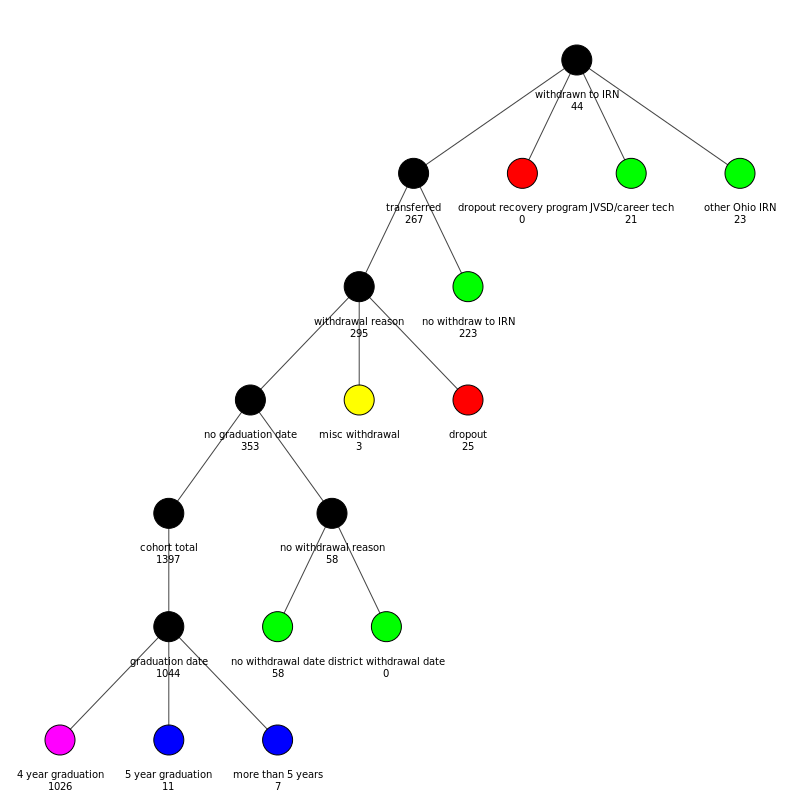
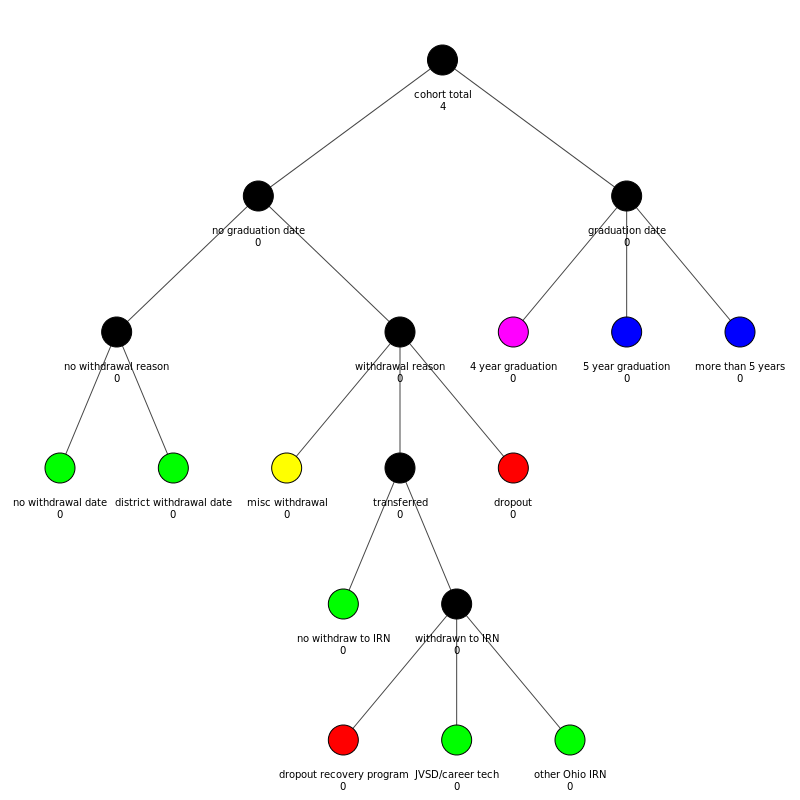
minor updates to fix root and documentation issues

diff --git a/Descriptives/cohort_analysis/build_cohort_tree_counts.py b/Descriptives/cohort_analysis/build_cohort_tree_counts.py
@@ -11,6 +11,19 @@ from mvesc_utility_functions import postgres_pgconnection_generator
 def get_bucket_counts(cursor, tree, grade_begin, year_begin,
         schema = 'clean', tracking = 'wrk_tracking_students', grads = 'all_graduates',
         dropout_recovery_irns="IRN_DORP_GRAD_RATE1415", jvsd_irns="JVSD_Contact"):
+    """
+    Runs a sql query for each of the 18 buckets in the initialized tree graph.
+    Gets the counts and lists of student lookup numbers for each bucket.
+    Updates the tree attributes with sql query results.
+    :param psycopg2.cursor cursor: a cursor to execute sql queries in postgres
+    :param igraph.Graph tree: an empty tree Graph, returned by build_empty_tree
+        (stores the results of queries in tree representation)
+    :param str grade_begin: the grade level of the entering cohort in string format
+    :param int year_begin: the school year of the entering cohort
+    :param str schema: name of schema containing tracking table
+    :param str tracking: name of wide student tracking table 
+    """
+
     # This function assumes wrk_tracking_students and all_graduates have been built correctly
     # Make sure they are up to date with latest builds!
 
@@ -156,7 +169,8 @@ def draw_tree_to_file(tree, filename="test_tree_plot.png"):
     Tree attributes should be fully defined before calling this function.
     """
 
-    tree_layout = tree.layout("tree")
+    # set root of the tree at vertex 0
+    tree_layout = tree.layout_reingold_tilford(root=[0])
     # set color mappings for each node in visualized tree graph
     color_dict = {"non-terminal":"black", "exclude":"yellow", "dropout":"red",
         "uncertain":"green", "late":"blue", "on-time":"magenta"}
